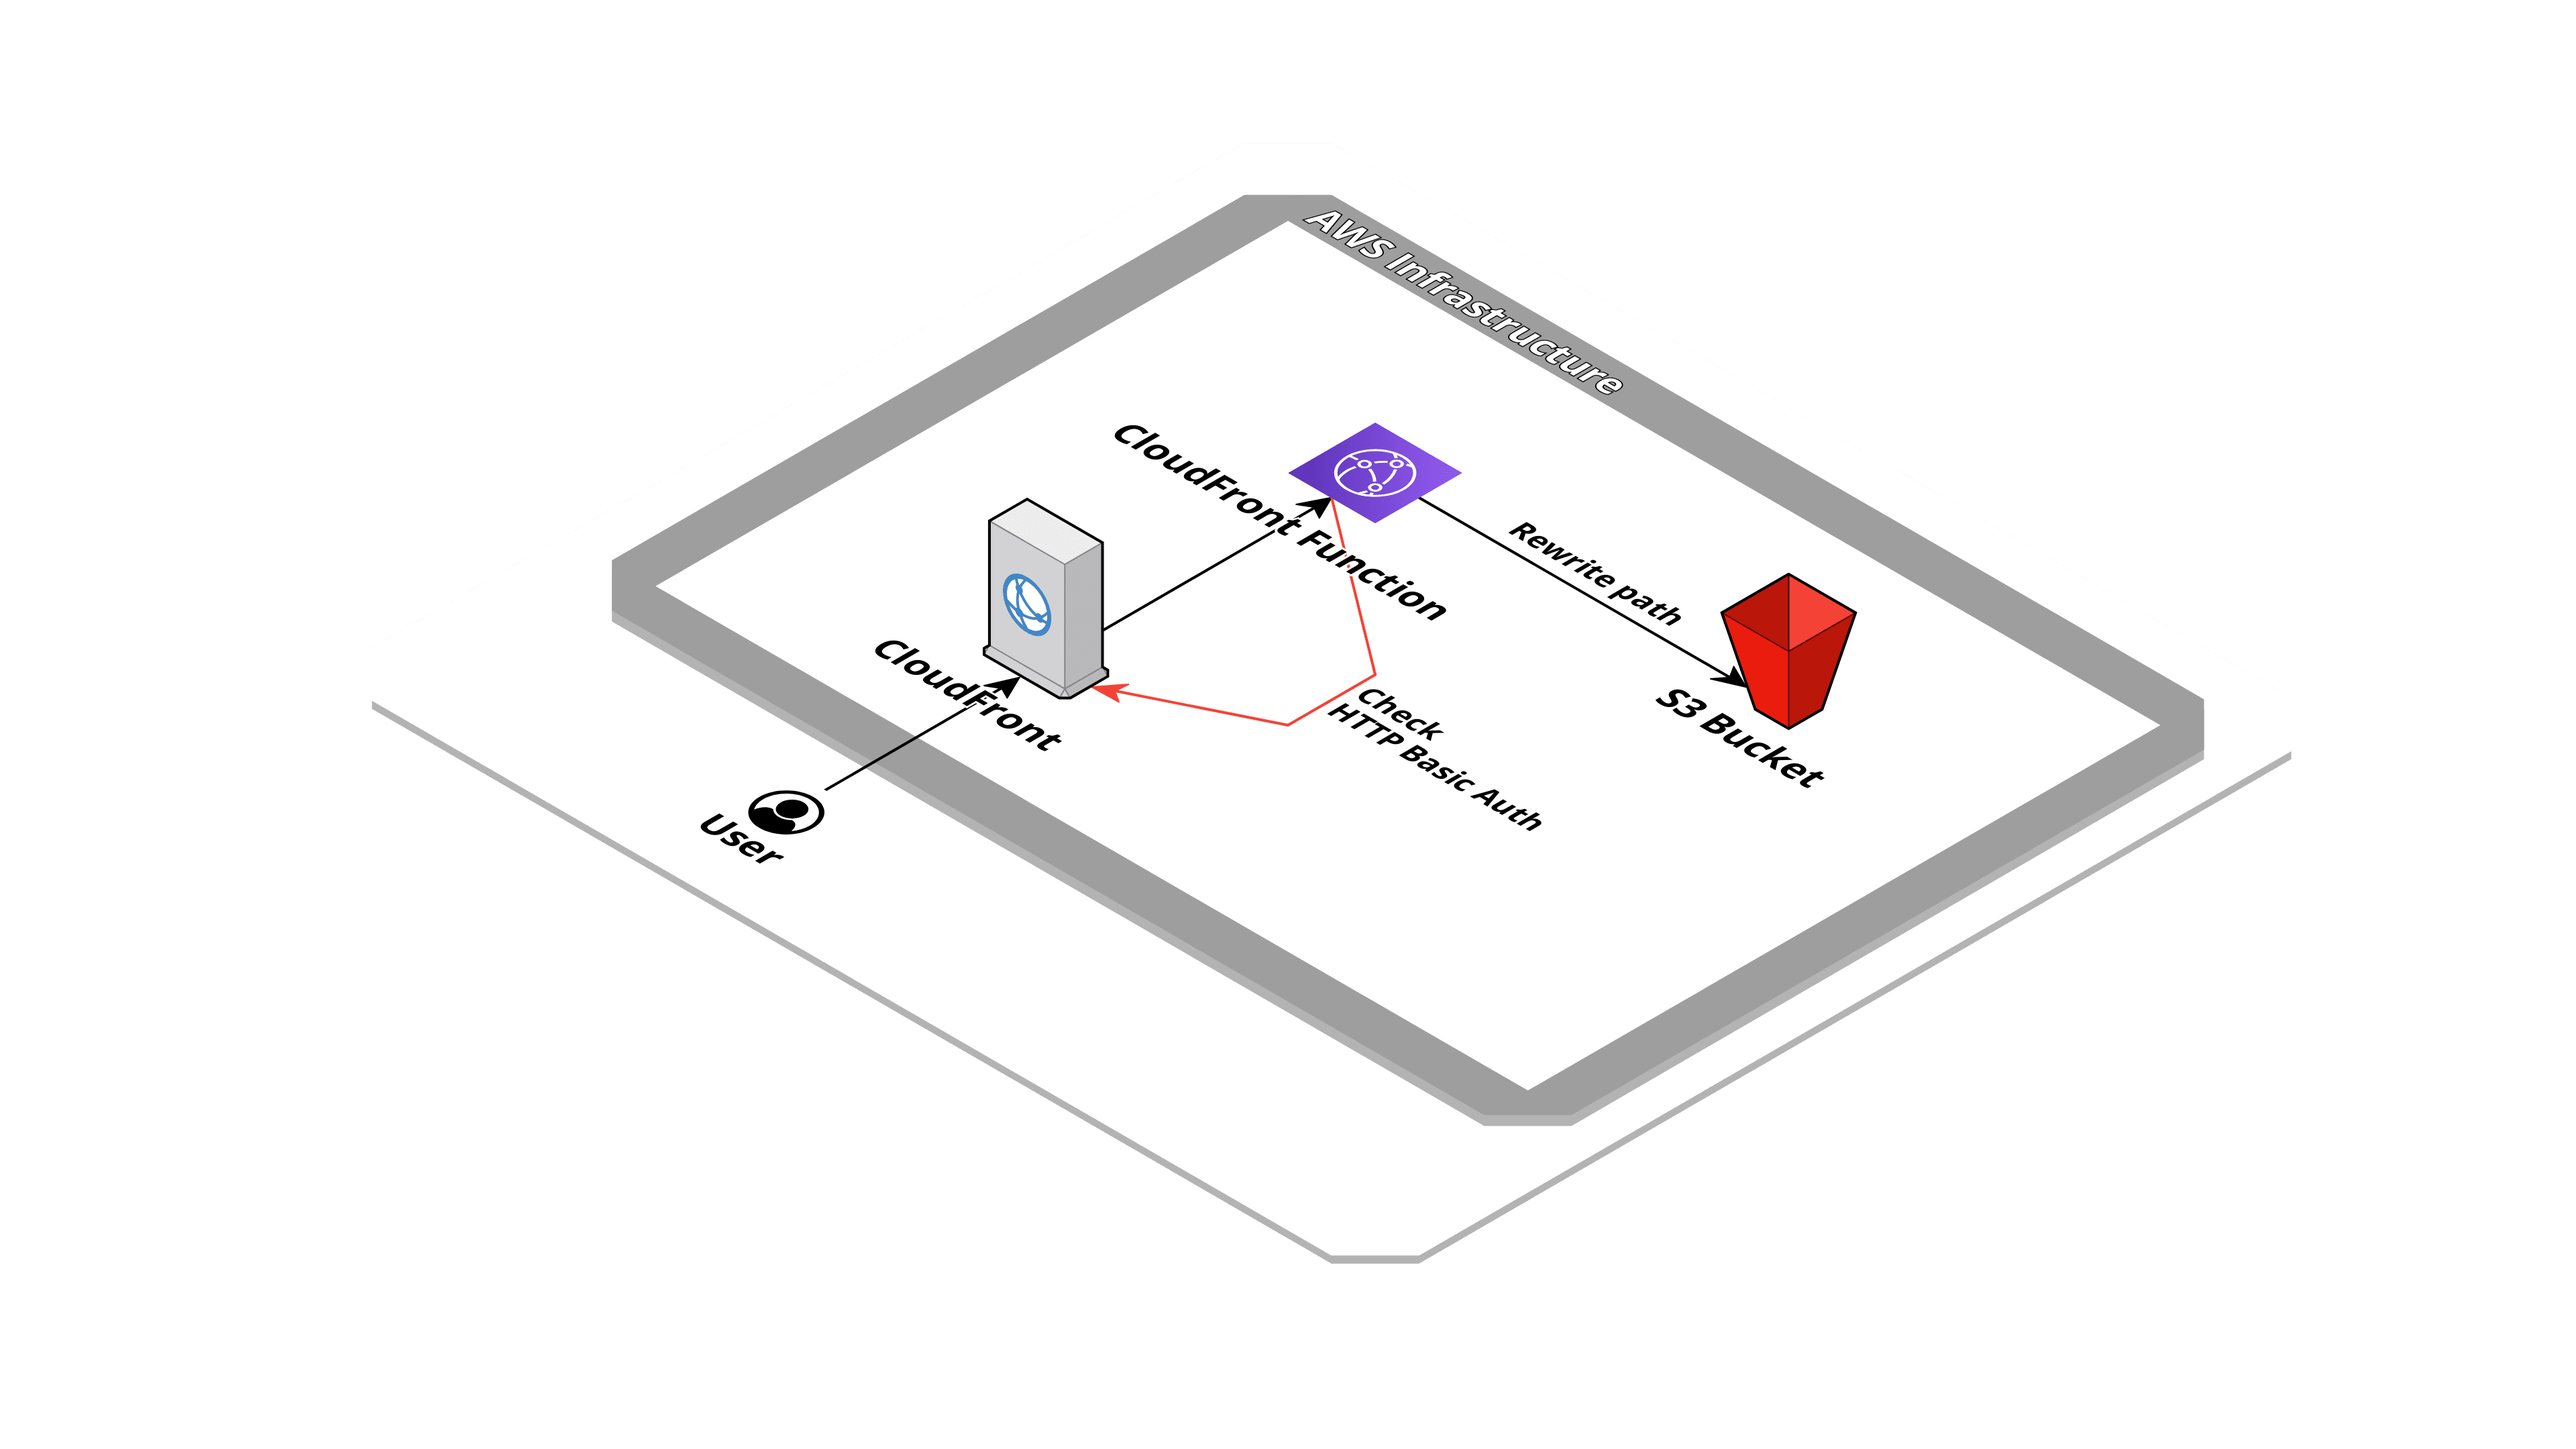
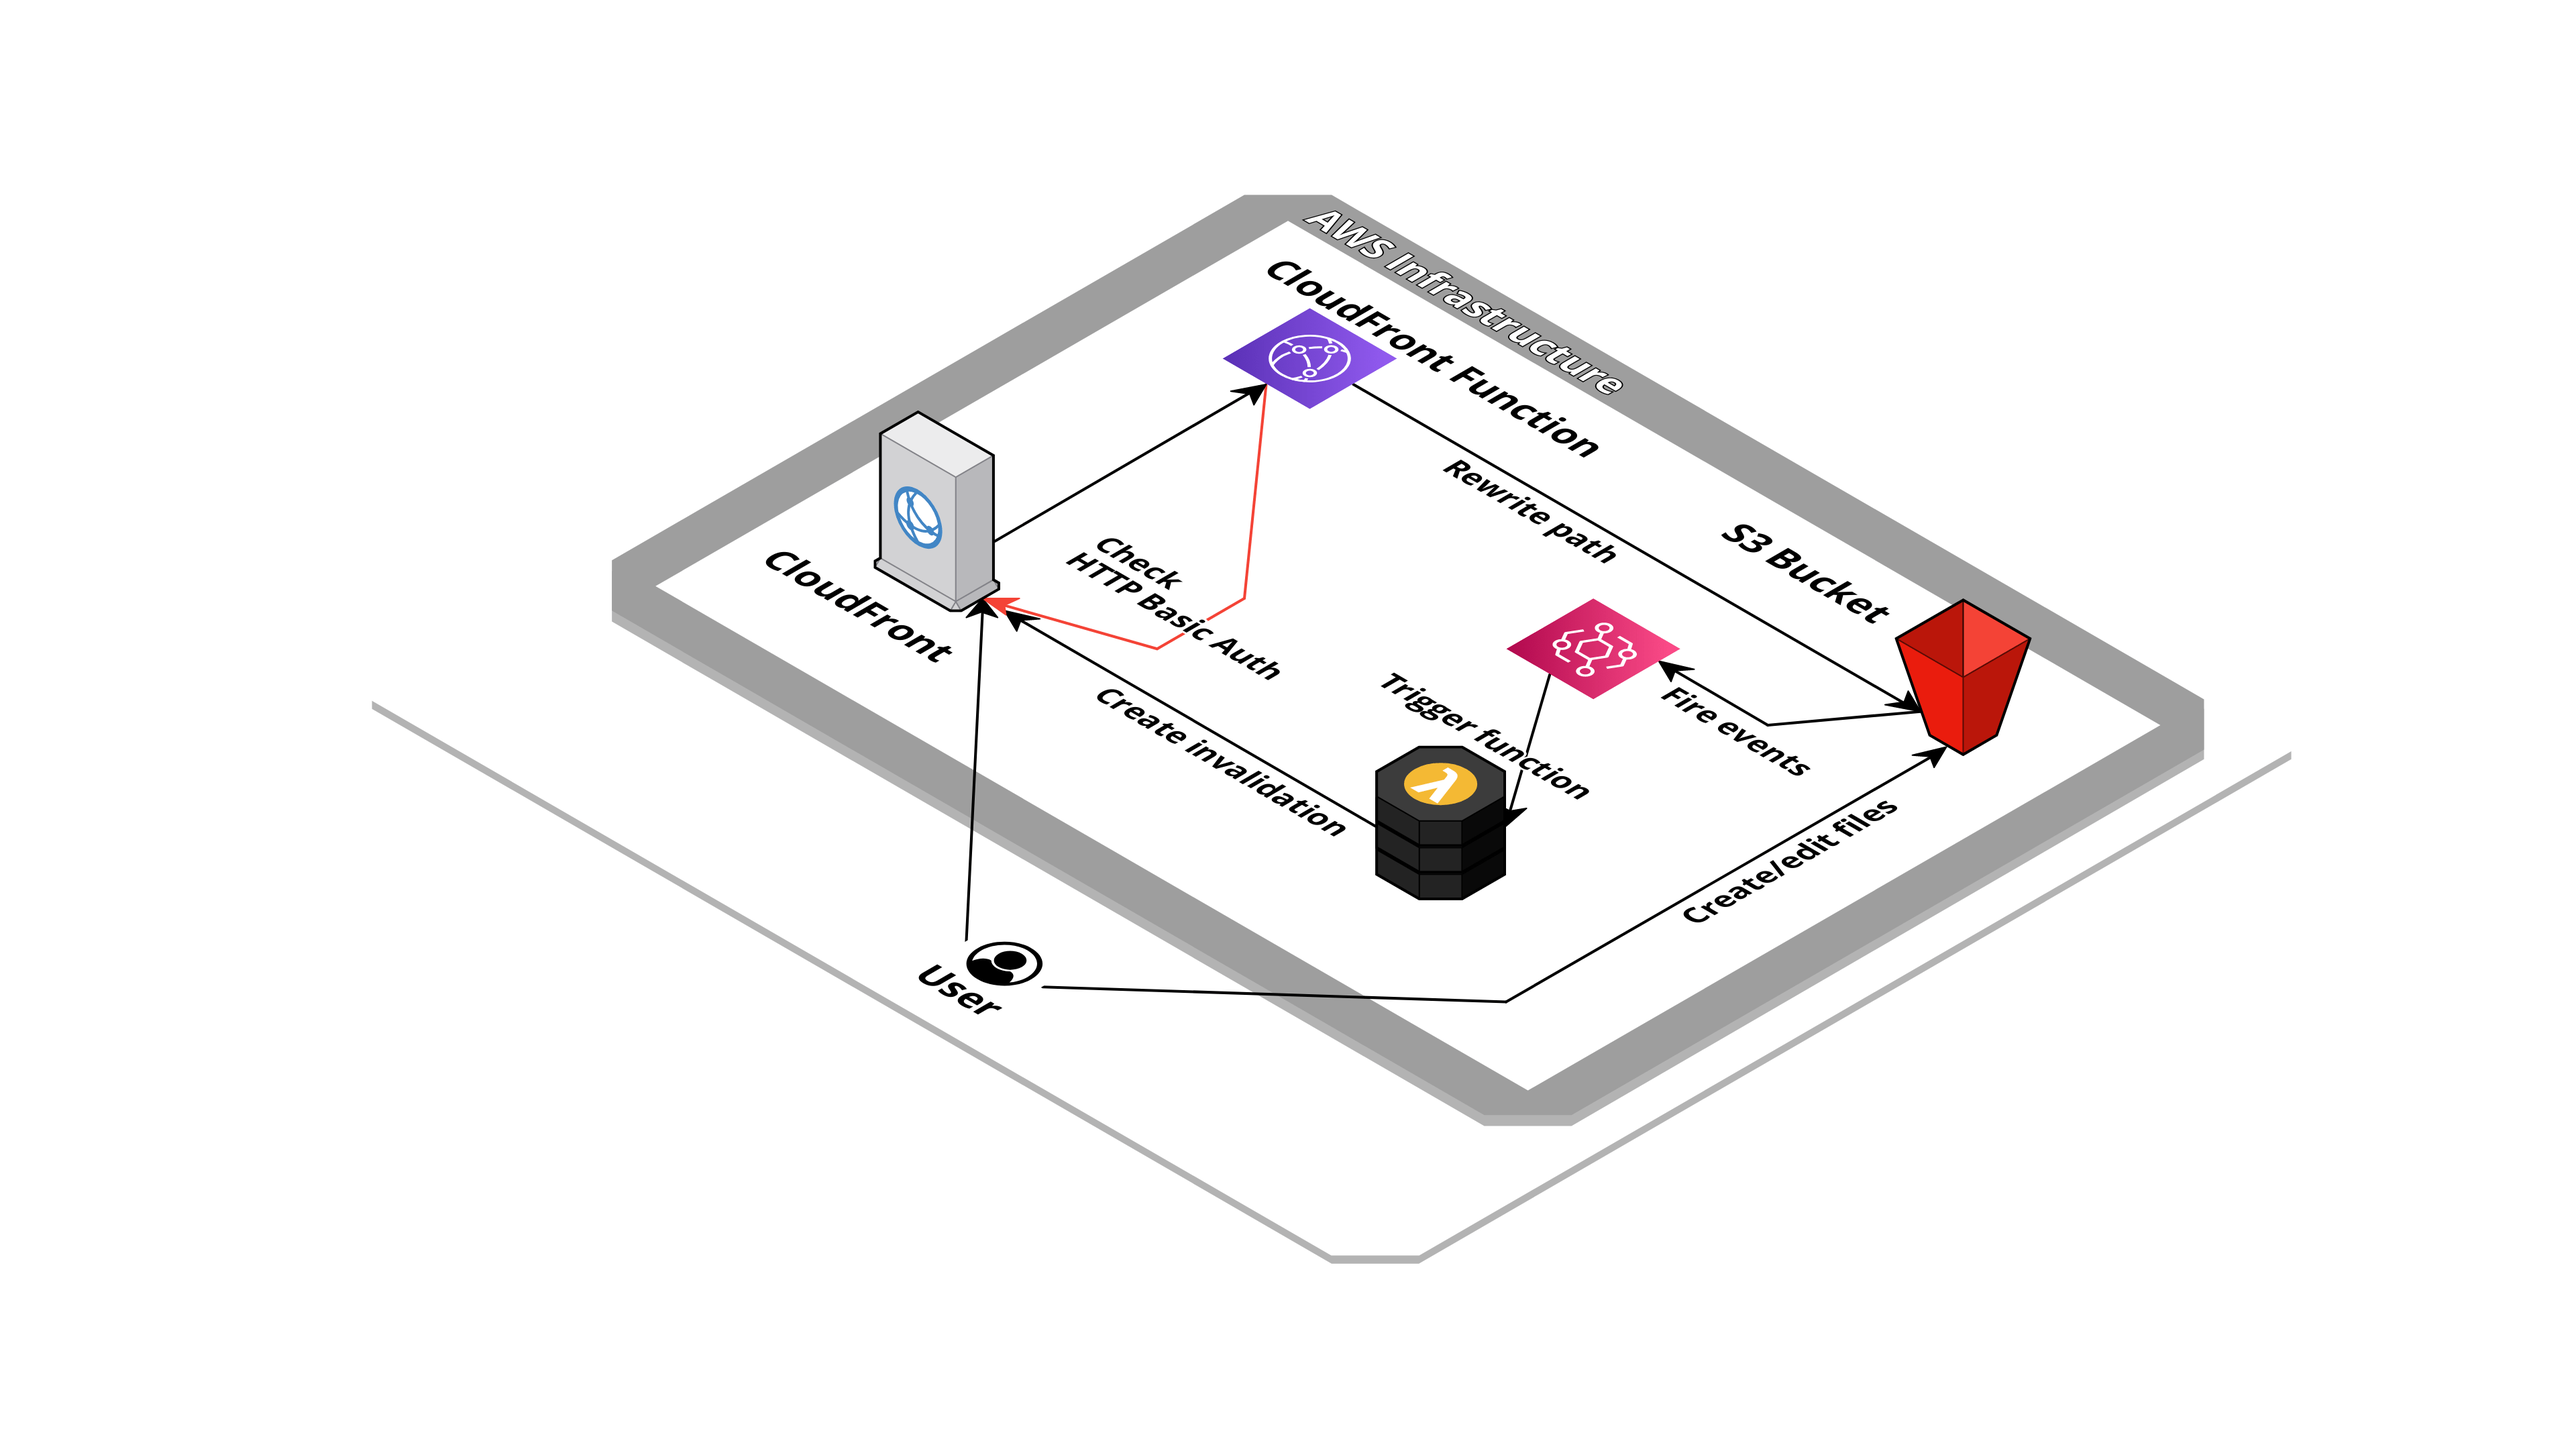
Update docs

diff --git a/README.md b/README.md
@@ -10,6 +10,8 @@ Simple static website management for SPA, PWA, static or JAM stack applications.
 
 This application creates an S3 bucket that will contain the website content and a CloudFront distribution in front of it for caching purpose. CloudFront functions are used to provided the correct path rewrite and eventually checking a HTTP Basic auth, before request arrives to S3.
 
+Furthermore, the application add an EventBridge rule that forward bucket's creation/deletion events to a Lambda function that automatically create invalidations on Cloudfront distribution for related paths. 
+
 ![Infrastructure Schema](./doc/schema.png)
 
 ## Installation
